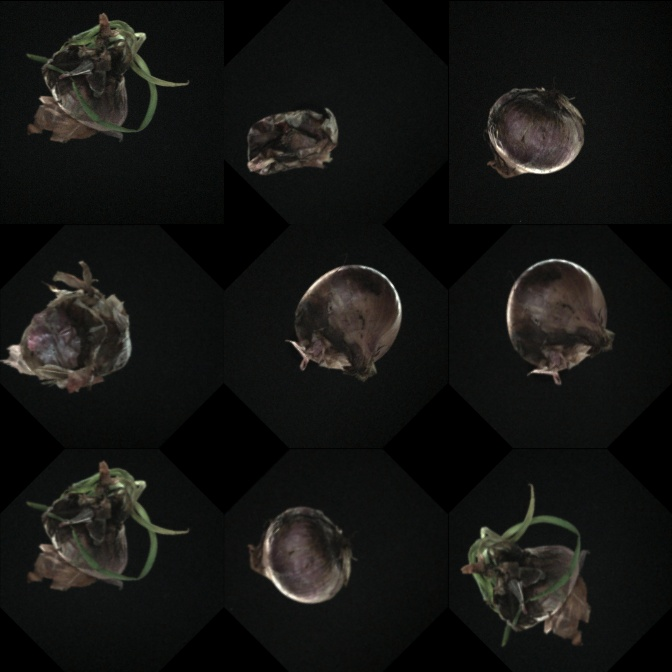
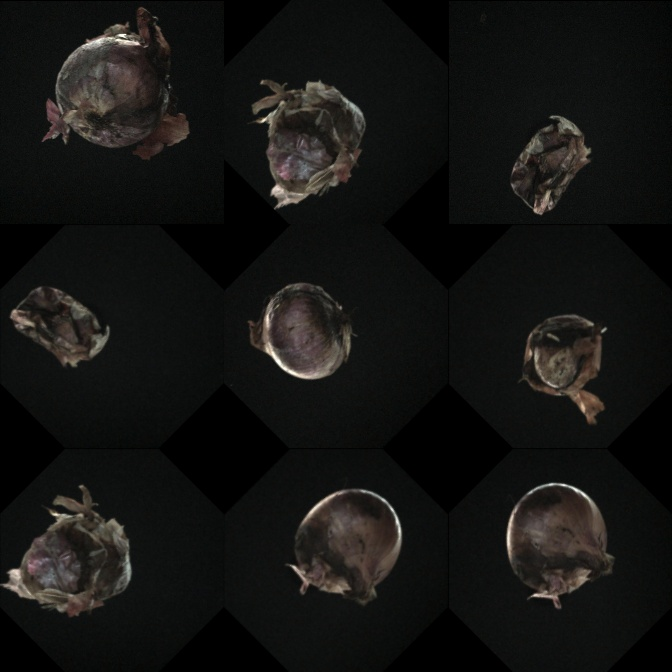
code for 4 frames

diff --git a/Testing Preprocessing/src/3_lane_continious_image_crop_save_for_data_acquistion.py b/Testing Preprocessing/src/3_lane_continious_image_crop_save_for_data_acquistion.py
@@ -3,19 +3,19 @@ import os
 
 ''' CREATING FOLDERS >>>>>>>>>>>>>>>>>>>>>>>>>>>>>>>>>>>>>>>>>>>>>>>>>>>>>>>>>>>>>>>>>>>>>>>>>>>>>>>>>>>>>>>>>>>>>>>> '''
 
-base_folder = 'resources/RGB_three_lane/images'
+base_folder = 'resources/three_lane/images'
 
 lanes = 3
 for lane in range(1, lanes + 1):
     lane_folder = f'lane_{lane}'
-    for orientation in ['A', 'B', 'C']:
+    for orientation in ['A', 'B', 'C', 'D']:
         path = os.path.join(base_folder, lane_folder, orientation)
         if not os.path.exists(path):
             os.makedirs(path)
 
 
-onion_current = [[None, None, None] for _ in range(lanes)]  
-orientation_current = ['A', 'B', 'C']
+onion_current = [[None, None, None, None] for _ in range(lanes)]  
+orientation_current = ['A', 'B', 'C', 'D']
 
 # Initialize onion count for each lane
 onion_count = [0] * lanes
@@ -34,7 +34,7 @@ def save_cropped_images(cropped_image, top_left, bottom_right, lane, orientation
 ''' PROCESS EACH IMAGE >>>>>>>>>>>>>>>>>>>>>>>>>>>>>>>>>>>>>>>>>>>>>>>>>>>>>>>>>>>>>>>>>>>>>>>>>>>>>>>>>>>>>>>>>>>>>>>> '''
 
 # Adjusting parameter (width, height) --> (x, y)
-# Lane : 1
+# Lane 1
 l1_p1_x1, l1_p1_y1 = 50, 45
 l1_p1_x2, l1_p1_y2 = 170, 160
 
@@ -47,7 +47,7 @@ l1_p3_x2, l1_p3_y2 = 180, 580
 l1_p4_x1, l1_p4_y1 = 50, 700
 l1_p4_x2, l1_p4_y2 = 225, 845
 
-# Lane : 2
+# Lane 2
 l2_p1_x1, l2_p1_y1 = 270, 10
 l2_p1_x2, l2_p1_y2 = 400, 140
 
@@ -60,7 +60,7 @@ l2_p3_x2, l2_p3_y2 = 420, 590
 l2_p4_x1, l2_p4_y1 = 280, 670
 l2_p4_x2, l2_p4_y2 = 400, 800
 
-# Lane : 3
+# Lane 3
 l3_p1_x1, l3_p1_y1 = 500, 20
 l3_p1_x2, l3_p1_y2 = 660, 200
 
@@ -146,7 +146,7 @@ def process_image(image_path):
     # Process each lane
     for lane in range(lanes):
         new_onion_number = onion_count[lane] + 1
-        for i in reversed(range(3)):
+        for i in reversed(range(4)):  # Adjusted to handle 4 orientations
             if i == 0:
                 onion_current[lane][i] = new_onion_number
                 onion_count[lane] += 1
@@ -154,7 +154,7 @@ def process_image(image_path):
                 onion_current[lane][i] = onion_current[lane][i - 1]
 
             if onion_current[lane][i] is not None:
-                save_cropped_images(cropped_image, areas_of_interest[lane * 3 + i][0], areas_of_interest[lane * 3 + i][1],
+                save_cropped_images(cropped_image, areas_of_interest[lane * 4 + i][0], areas_of_interest[lane * 4 + i][1],
                                     lane + 1, orientation_current[i], onion_current[lane][i])
 
 
@@ -164,13 +164,6 @@ image_paths = [
     '/Users/user/Documents/ROS_new_potato/Testing Preprocessing/resources/padded_image.jpg',
     '/Users/user/Documents/ROS_new_potato/Testing Preprocessing/resources/padded_image.jpg',
 ]
-
-# image_paths = [
-#     '/Users/user/Documents/ROS_new_potato/Testing Preprocessing/padded_image.jpg',
-#     '/Users/user/Documents/ROS_new_potato/Testing Preprocessing/padded_image.jpg',
-#     '/Users/user/Documents/ROS_new_potato/Testing Preprocessing/padded_image.jpg',
-#     '/Users/user/Documents/ROS_new_potato/Testing Preprocessing/padded_image.jpg'
-# ]
 
 for image_path in image_paths:
     process_image(image_path)

diff --git a/Testing Preprocessing/src/new.py b/Testing Preprocessing/src/new.py
@@ -12,12 +12,11 @@ def rotate_image(image, angle):
     rotated_image = cv2.warpAffine(image, rotation_matrix, (width, height))
     return rotated_image
 
-# Function to create the canvas with padding
+# Function to create the canvas without padding
 def create_canvas():
-    # Create a 672x672 image with a green border of 30 pixels
-    canvas = np.zeros((672 + 60, 672 + 60, 3), dtype=np.uint8)
-    canvas[:, :] = (0, 255, 0)  # Green padding
-    return canvas[30:-30, 30:-30]
+    # Create a 672x672 image (no padding)
+    canvas = np.zeros((672, 672, 3), dtype=np.uint8)
+    return canvas
 
 # Function to place the images on the canvas
 def place_images_on_canvas(canvas, images):

diff --git a/Testing Preprocessing/src/visulalize_image_using_plotly.py b/Testing Preprocessing/src/visulalize_image_using_plotly.py
@@ -1,7 +1,7 @@
 import cv2
 import plotly.express as px
 
-image_path = '/Users/user/Documents/ROS_new_potato/Testing Preprocessing/resources/stitched_image.jpg'
+image_path = '/Users/user/Documents/ROS_new_potato/Testing Preprocessing/resources/images/output_step_5.jpg'
 image = cv2.imread(image_path) # will be read BGR by default.
 
 image_rgb = cv2.cvtColor(image, cv2.COLOR_BGR2RGB)
